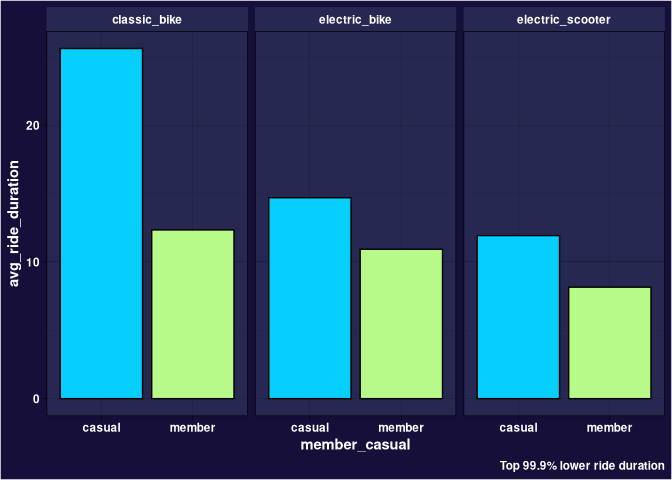
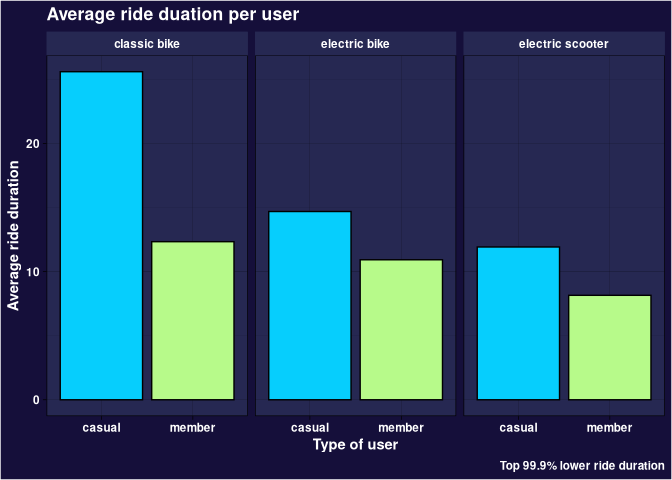
Add new graph that complements rides per day of the week, updating label naming in facets

diff --git a/README.md b/README.md
@@ -551,11 +551,14 @@ df |>
   ggplot() +
   aes(x = member_casual, y = avg_ride_duration, fill = member_casual) +
   geom_col(color = "#000000") +
-  facet_wrap(~rideable_type) +
+  facet_wrap(~rideable_type, labeller = as_labeller(function(string)  gsub("_", " ", string)) ) +
   global_theme() +
   scale_fill_manual(values = c("#06CEFD", "#B7FA8A")) +
   theme(legend.position = "none") +
   labs(
+    title = "Average ride duation per user", 
+    y = "Average ride duration", 
+    x = "Type of user",
     caption = "Top 99.9% lower ride duration",
   )
 ```
@@ -621,14 +624,57 @@ Some other interesting visualization is the next one:
 
 ``` r
 seasons <- c("1" = "Spring", "2" = "Summer", "3" = "Autumn", "4" = "Winter")
+weekdays <- c("Mon", "Tues", "Wed", "Thurs", "Fri", "Sat", "Sun")
+df |>
+  slice_min(n = as.integer(dim(df)[1] * 0.99), order_by = ride_duration) |>
+  mutate(wday = as.numeric(wday(started_at, week_start = 1)),
+    season = quarter(started_at, fiscal_start = 4)
+  ) |>
+  select(member_casual, wday, season) |>
+  group_by(member_casual, season, wday) |>
+  summarize(count = n()) |>
+  ungroup() |>
+  mutate(wday = factor(wday, levels = 1:7)) |>
+  ggplot() +
+  aes(x = wday, y = count, color = member_casual, group = member_casual) +
+  geom_point() +
+  geom_line() +
+  scale_x_discrete(breaks = 1:7,
+    labels = weekdays
+  ) +
+  facet_grid(
+    rows = vars(season),
+    labeller = labeller(.default = seasons)
+  ) +
+  labs(
+    x = "Day of the week",
+    title = "Rides per day of the week",
+    subtitle = "Data from Oct-2023 to Sep-24",
+    y = "Number of rides",
+    color = "Type of user",
+  ) +
+  scale_color_manual(values = c("#06CEFD", "#B7FA8A")) +
+  global_theme() +
+  theme(
+    legend.background = element_rect(fill = "#150F3A", color = "white"),
+    legend.text = element_text(color = "white"),
+    legend.title = element_text(color = "white"),
+    legend.position = "bottom",
+  )
+```
 
+![](README_files/figure-commonmark/Rides%20per%20day%20of%20the%20week%20per%20season-1.png)
+
+``` r
 df |>
   slice_min(n = as.integer(dim(df)[1] * 0.99), order_by = ride_duration) |>
   ggplot() +
-  aes(x = wday(started_at, week_start = 1), fill = member_casual) +
+  aes(x = wday(started_at, week_start = 1, label = TRUE),
+    fill = member_casual
+  ) +
   geom_histogram(
     stat = "count",
-    position = position_dodge(),
+    position = "dodge",
     color = "black"
   ) +
   facet_grid(
@@ -638,7 +684,7 @@ df |>
   labs(
     x = "Day of the week",
     title = "Rides per day of the week",
-    subtitle = "Data from Agust, 2024",
+    subtitle = "Data from Oct-2023 to Sep-24",
     y = "Number of rides",
     fill = "Type of user",
   ) +
@@ -652,7 +698,12 @@ df |>
   )
 ```
 
-![](README_files/figure-commonmark/Rides%20per%20day%20of%20the%20week%20per%20season-1.png)
+![](README_files/figure-commonmark/Rides%20per%20day%20of%20the%20week%20per%20season-2.png)
+
+Where we can see two things, that the number of rides increases in
+spring and summer, we even find that on weekends the gap between members
+and casual users, with Saturdays on summer having more casual users
+overall.
 
 ``` r
 c(1)
